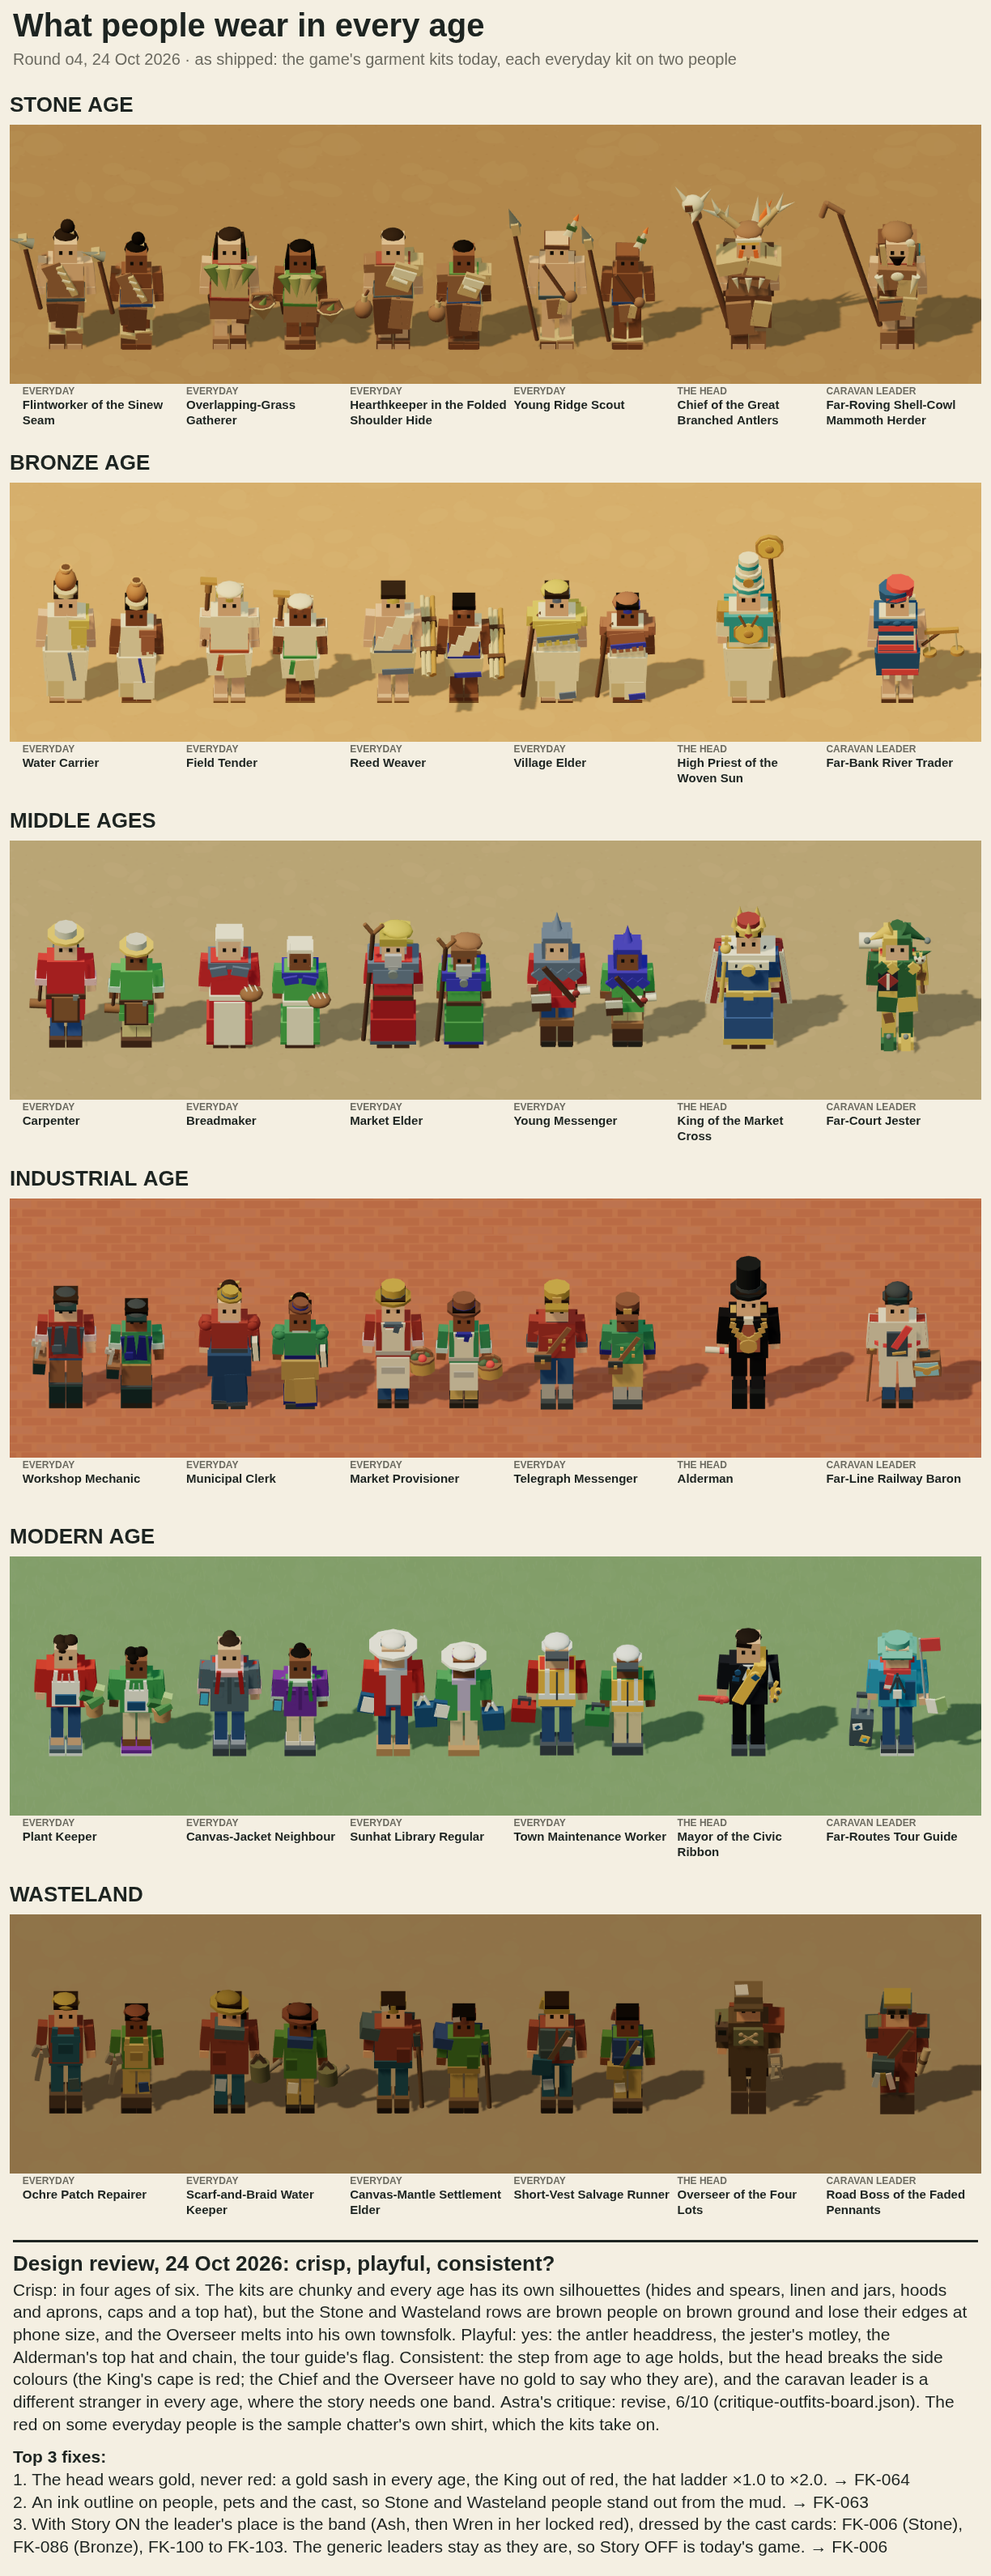
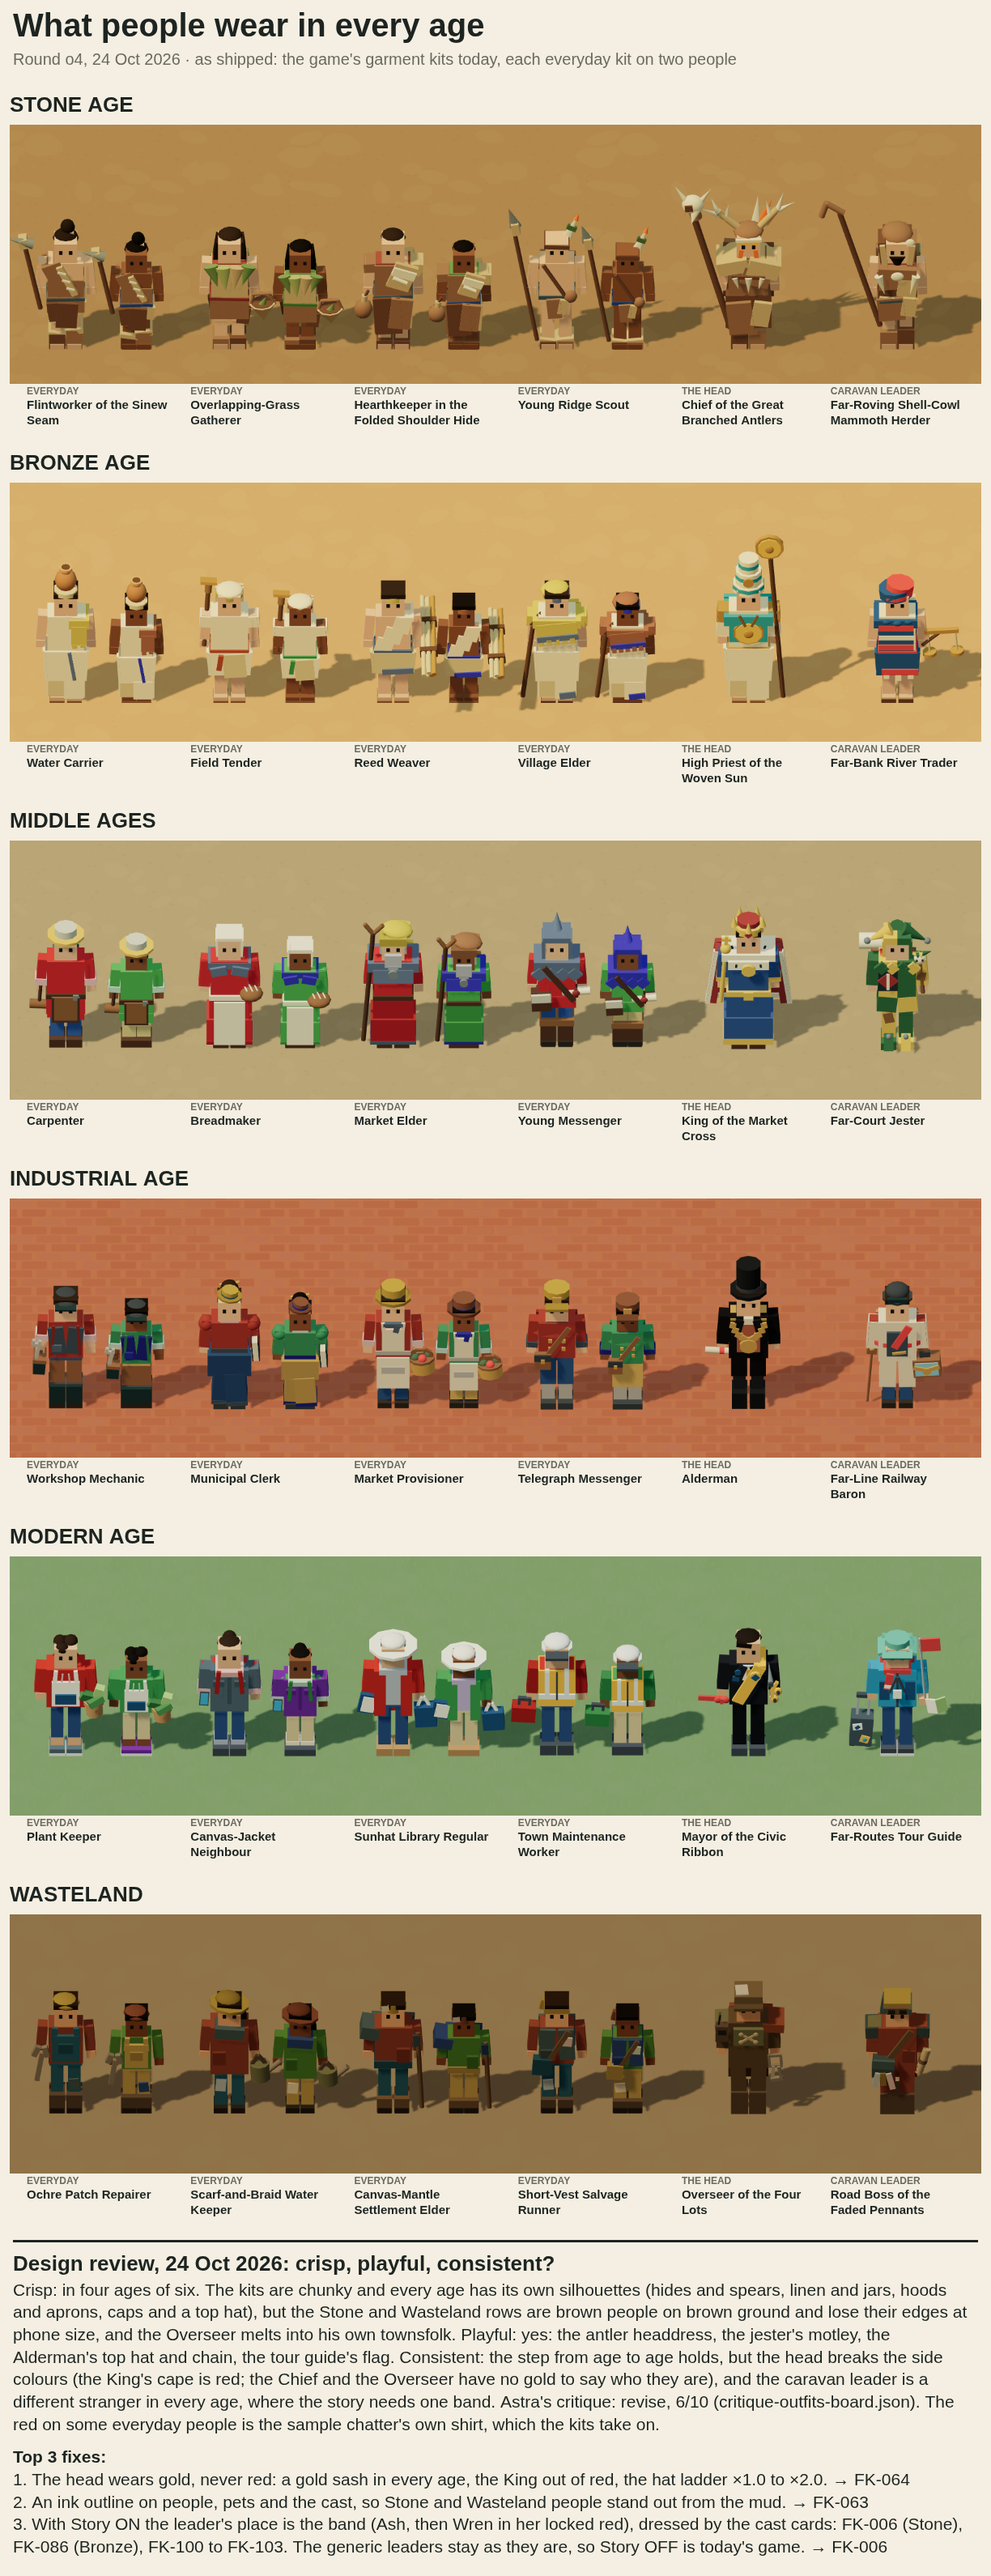
FK-004: review notes: 14×scale padding a side between kit names on the outfits board; the board-life note in two columns across the board, its greyscale line corrected (the people, mostly Stone, not the Wasteland builds); BOARD_DATE pins the label date; o4 and rfinal3 re-rendered

diff --git a/ai-dudes-city/design/board/main.ts b/ai-dudes-city/design/board/main.ts
@@ -351,33 +351,48 @@ function lines(g: CanvasRenderingContext2D, s: string, size: number, weight: num
 }
 const MEASURE = document.createElement('canvas').getContext('2d')!;
 const NOTE_HEAD = 26,
-  NOTE_SIZE = 21;
+  NOTE_SIZE = 21,
+  NOTE_GAP = 48;
 /**
  * The audit note under a board (note-<board>.txt beside it): the first line is its heading, a short
- * line ending in a colon ("Top 3 fixes:") is bold, the rest wraps, a blank line is a small gap. In a column no wider than 1500 px so it reads on a wide
- * board. Draws it at y when given a context; returns the height it takes either way.
+ * line ending in a colon ("Top 3 fixes:") is bold, the rest wraps, a blank line is a small gap. A board
+ * wide enough for two 900 px columns sets what follows the first blank line (the fixes) in the right-hand
+ * one, so the note fills the board; a column is never wider than 1500 px, so it reads. Draws it at y when
+ * given a context; returns the height it takes either way.
  */
 function noteBlock(note: string | undefined, width: number, g?: CanvasRenderingContext2D, y = 0): number {
   if (!note?.trim()) return 0;
-  const max = Math.min(width - 32, 1500);
+  const [head, ...rows] = note.trim().split('\n');
+  const split = rows.findIndex((r) => !r.trim()),
+    two = split > 0 && (width - 32 - NOTE_GAP) / 2 >= 900;
+  const max = Math.min(two ? (width - 32 - NOTE_GAP) / 2 : width - 32, 1500);
   if (g) {
     g.fillStyle = INK;
     g.fillRect(16, y + 4, width - 32, 3);
   }
   let h = 22;
-  note
-    .trim()
-    .split('\n')
-    .forEach((row, i) => {
-      if (!row.trim()) return void (h += NOTE_SIZE * 0.6);
-      const size = i ? NOTE_SIZE : NOTE_HEAD,
-        weight = !i ? 800 : /^[^.]{1,40}:$/.test(row.trim()) ? 700 : 400;
-      for (const l of lines(g ?? MEASURE, row.trim(), size, weight, max)) {
-        if (g) text(g, l, 16, y + h, size, INK, weight);
-        h += size * 1.32;
+  for (const l of lines(g ?? MEASURE, head.trim(), NOTE_HEAD, 800, max)) {
+    if (g) text(g, l, 16, y + h, NOTE_HEAD, INK, 800);
+    h += NOTE_HEAD * 1.32;
+  }
+  // One column's rows from its top; returns its height.
+  const column = (rows: string[], x: number, top: number): number => {
+    let ch = 0;
+    for (const row of rows) {
+      if (!row.trim()) {
+        ch += NOTE_SIZE * 0.6;
+        continue;
       }
-    });
-  return h + 18;
+      const weight = /^[^.]{1,40}:$/.test(row.trim()) ? 700 : 400;
+      for (const l of lines(g ?? MEASURE, row.trim(), NOTE_SIZE, weight, max)) {
+        if (g) text(g, l, x, top + ch, NOTE_SIZE, INK, weight);
+        ch += NOTE_SIZE * 1.32;
+      }
+    }
+    return ch;
+  };
+  const cols = two ? [rows.slice(0, split), rows.slice(split + 1)] : [rows];
+  return h + Math.max(...cols.map((r, i) => column(r, 16 + i * (max + NOTE_GAP), y + h))) + 18;
 }
 /** The board's title and the label under it; returns where the board's own content starts. */
 function heading(g: CanvasRenderingContext2D, title: string, subtitle: string | undefined, width: number): number {
@@ -562,9 +577,10 @@ function outfitPanel(row: { picture: HTMLCanvasElement; slots: SlotPx[] }, scale
   g.fillRect(0, 0, c.width, c.height);
   g.drawImage(row.picture, 0, 0, c.width, c.height - bandH);
   const top = c.height - bandH + 6 * scale;
+  // 14 a side, so two neighbouring names keep a clear gap and never read as one.
   for (const s of row.slots) {
-    const x = (s.px - s.pw / 2) * scale + 6 * scale,
-      max = s.pw * scale - 12 * scale;
+    const x = (s.px - s.pw / 2) * scale + 14 * scale,
+      max = s.pw * scale - 28 * scale;
     text(g, ROLE[s.role], x, top, roleSize, MUTED, 700, max);
     const name = lines(g, s.label, nameSize, 700, max);
     name.slice(0, 2).forEach((l, i) => text(g, i === 1 && name.length > 2 ? `${l}…` : l, x, top + roleSize * 1.3 + i * nameSize * 1.25, nameSize, INK, 700, max));

diff --git a/ai-dudes-city/design/out/board.js b/ai-dudes-city/design/out/board.js
@@ -20527,23 +20527,38 @@
   var MEASURE = document.createElement("canvas").getContext("2d");
   var NOTE_HEAD = 26;
   var NOTE_SIZE = 21;
+  var NOTE_GAP = 48;
   function noteBlock(note, width, g, y = 0) {
     if (!note?.trim()) return 0;
-    const max = Math.min(width - 32, 1500);
+    const [head, ...rows] = note.trim().split("\n");
+    const split = rows.findIndex((r) => !r.trim()), two = split > 0 && (width - 32 - NOTE_GAP) / 2 >= 900;
+    const max = Math.min(two ? (width - 32 - NOTE_GAP) / 2 : width - 32, 1500);
     if (g) {
       g.fillStyle = INK;
       g.fillRect(16, y + 4, width - 32, 3);
     }
     let h = 22;
-    note.trim().split("\n").forEach((row, i) => {
-      if (!row.trim()) return void (h += NOTE_SIZE * 0.6);
-      const size = i ? NOTE_SIZE : NOTE_HEAD, weight = !i ? 800 : /^[^.]{1,40}:$/.test(row.trim()) ? 700 : 400;
-      for (const l of lines(g ?? MEASURE, row.trim(), size, weight, max)) {
-        if (g) text(g, l, 16, y + h, size, INK, weight);
-        h += size * 1.32;
+    for (const l of lines(g ?? MEASURE, head.trim(), NOTE_HEAD, 800, max)) {
+      if (g) text(g, l, 16, y + h, NOTE_HEAD, INK, 800);
+      h += NOTE_HEAD * 1.32;
+    }
+    const column = (rows2, x, top) => {
+      let ch = 0;
+      for (const row of rows2) {
+        if (!row.trim()) {
+          ch += NOTE_SIZE * 0.6;
+          continue;
+        }
+        const weight = /^[^.]{1,40}:$/.test(row.trim()) ? 700 : 400;
+        for (const l of lines(g ?? MEASURE, row.trim(), NOTE_SIZE, weight, max)) {
+          if (g) text(g, l, x, top + ch, NOTE_SIZE, INK, weight);
+          ch += NOTE_SIZE * 1.32;
+        }
       }
-    });
-    return h + 18;
+      return ch;
+    };
+    const cols = two ? [rows.slice(0, split), rows.slice(split + 1)] : [rows];
+    return h + Math.max(...cols.map((r, i) => column(r, 16 + i * (max + NOTE_GAP), y + h))) + 18;
   }
   function heading(g, title, subtitle, width) {
     text(g, title, 16, 14, 40, INK, 800, width - 32);
@@ -20685,7 +20700,7 @@
     g.drawImage(row.picture, 0, 0, c.width, c.height - bandH);
     const top = c.height - bandH + 6 * scale;
     for (const s of row.slots) {
-      const x = (s.px - s.pw / 2) * scale + 6 * scale, max = s.pw * scale - 12 * scale;
+      const x = (s.px - s.pw / 2) * scale + 14 * scale, max = s.pw * scale - 28 * scale;
       text(g, ROLE[s.role], x, top, roleSize, MUTED, 700, max);
       const name = lines(g, s.label, nameSize, 700, max);
       name.slice(0, 2).forEach((l, i) => text(g, i === 1 && name.length > 2 ? `${l}\u2026` : l, x, top + roleSize * 1.3 + i * nameSize * 1.25, nameSize, INK, 700, max));
